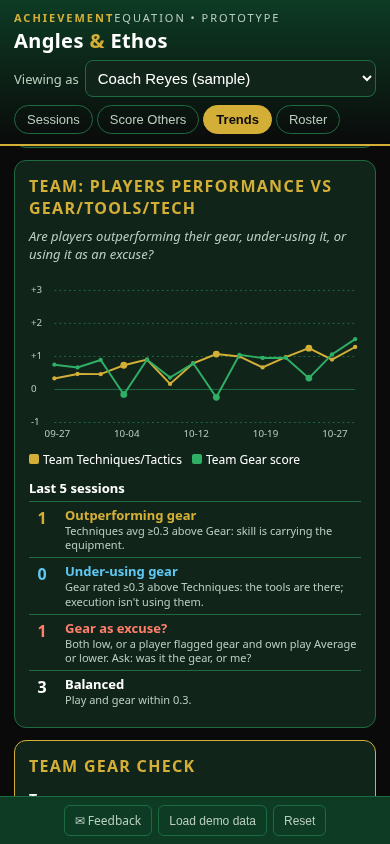
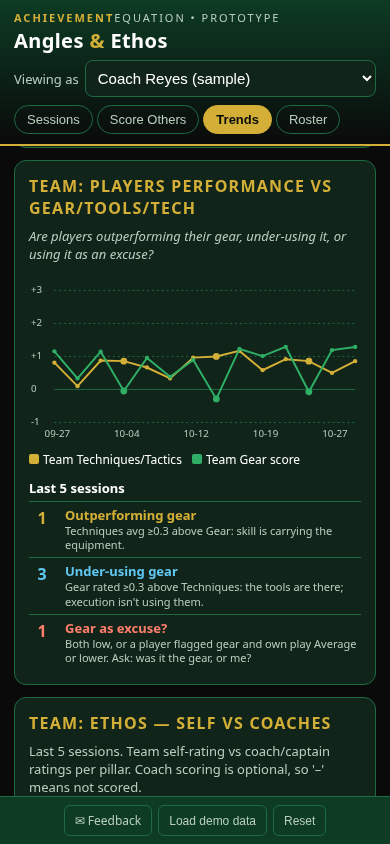
Optional Ethos Pillar scoring + 'Moment I noticed' in Score Others; Ethos self vs coaches; Shout-outs

Changed region(s): [[0.0308, 0.8009, 0.9846, 0.955], [0.1231, 0.4005, 0.9231, 0.4929], [0.0923, 0.6777, 0.1231, 0.7085]]

diff --git a/index.html b/index.html
@@ -42,7 +42,9 @@ const uid=()=>Math.random().toString(36).slice(2,9);
 let S=load(); let tab=null; let draft={};
 function blank(){return{team:'My Team',users:[{id:'coach1',name:'Coach',role:'coach'}],ethos:['Was I coachable?','Did I think of others first?','Did the mission stay the main thing?','Did I look for small things that needed to get done?','Did I work hard?'],angles:{tools:'Tools',technology:'Technology'},sessions:[],entries:[],others:[],me:'coach1'}}
 function migrate(d){const b=blank();if(!d||typeof d!=='object')return b;d.angles={tools:'Tools',technology:'Technology'};for(const k in b)if(d[k]==null)d[k]=b[k];if(!Array.isArray(d.ethos)||d.ethos.some(x=>/placeholder/i.test(x)))d.ethos=b.ethos;while(d.ethos.length<5)d.ethos.push(b.ethos[d.ethos.length]);
- ['users','sessions','entries','others'].forEach(k=>{if(!Array.isArray(d[k]))d[k]=[]});d.entries.forEach(e=>{if(!Array.isArray(e.ethos))e.ethos=[];if(!Array.isArray(e.ethosNotes))e.ethosNotes=[];if(!Array.isArray(e.techScores))e.techScores=[];e.factors=e.factors||{};if(!Array.isArray(e.toolScores)){e.toolScores=[];e.techGear=[];if(e.tools||e.tech)e.gearNote=[e.tools&&('Tools: '+e.tools),e.tech&&('Technology: '+e.tech)].filter(Boolean).join(' · ');if(e.tech==='N/A')e.techNA=true}if(!Array.isArray(e.techGear))e.techGear=[]});d.sessions.forEach(x=>{if(!Array.isArray(x.techniques))x.techniques=[];if(!Array.isArray(x.tools))x.tools=[];if(!Array.isArray(x.tech))x.tech=[]});d.users.forEach(u=>{if(u.role!=='coach'&&!POS[u.pos])u.pos='F'});d.sessions.forEach(x=>{if(!x.groups||typeof x.groups!=='object')x.groups={};for(const g in x.groups){const c=x.groups[g];if(!POS[g]||!c||typeof c!=='object'){delete x.groups[g];continue}['techniques','tools','tech'].forEach(k=>{if(!Array.isArray(c[k]))c[k]=[]});if(!c.techniques.length)delete x.groups[g]}});d.sessions.forEach(x=>{const n=x.coachNotes;if(!n||typeof n!=='object'||Array.isArray(n)){x.coachNotes=typeof n==='string'&&n.trim()?{change:n,learned:'',surprised:'',at:null}:null}else['change','learned','surprised'].forEach(k=>{if(typeof n[k]!=='string')n[k]=''})});d.entries.forEach(e=>{const f=e.factors;if(f.life===undefined&&f.rec===undefined&&f.nutrition===undefined){const ok=v=>typeof v==='number'&&v>=1&&v<=5;const nf={sleepH:f.sleepH??null,sleep:ok(f.sleepQ)?f.sleepQ:null,nutrition:ok(f.nutr)?f.nutr:null,life:ok(f.stress)?6-f.stress:null,notes:f.notes||''};const rr=[ok(f.sore)?6-f.sore:null,ok(f.hyd)?f.hyd:null].filter(v=>v!=null);nf.rec=rr.length?Math.round(rr.reduce((a,b)=>a+b,0)/rr.length*10)/10:null;e.factors=nf}});d.v=6;return d}
+ ['users','sessions','entries','others'].forEach(k=>{if(!Array.isArray(d[k]))d[k]=[]});d.entries.forEach(e=>{if(!Array.isArray(e.ethos))e.ethos=[];if(!Array.isArray(e.ethosNotes))e.ethosNotes=[];if(!Array.isArray(e.techScores))e.techScores=[];e.factors=e.factors||{};if(!Array.isArray(e.toolScores)){e.toolScores=[];e.techGear=[];if(e.tools||e.tech)e.gearNote=[e.tools&&('Tools: '+e.tools),e.tech&&('Technology: '+e.tech)].filter(Boolean).join(' · ');if(e.tech==='N/A')e.techNA=true}if(!Array.isArray(e.techGear))e.techGear=[]});d.sessions.forEach(x=>{if(!Array.isArray(x.techniques))x.techniques=[];if(!Array.isArray(x.tools))x.tools=[];if(!Array.isArray(x.tech))x.tech=[]});d.users.forEach(u=>{if(u.role!=='coach'&&!POS[u.pos])u.pos='F'});d.sessions.forEach(x=>{if(!x.groups||typeof x.groups!=='object')x.groups={};for(const g in x.groups){const c=x.groups[g];if(!POS[g]||!c||typeof c!=='object'){delete x.groups[g];continue}['techniques','tools','tech'].forEach(k=>{if(!Array.isArray(c[k]))c[k]=[]});if(!c.techniques.length)delete x.groups[g]}});d.sessions.forEach(x=>{const n=x.coachNotes;if(!n||typeof n!=='object'||Array.isArray(n)){x.coachNotes=typeof n==='string'&&n.trim()?{change:n,learned:'',surprised:'',at:null}:null}else['change','learned','surprised'].forEach(k=>{if(typeof n[k]!=='string')n[k]=''})});d.entries.forEach(e=>{const f=e.factors;if(f.life===undefined&&f.rec===undefined&&f.nutrition===undefined){const ok=v=>typeof v==='number'&&v>=1&&v<=5;const nf={sleepH:f.sleepH??null,sleep:ok(f.sleepQ)?f.sleepQ:null,nutrition:ok(f.nutr)?f.nutr:null,life:ok(f.stress)?6-f.stress:null,notes:f.notes||''};const rr=[ok(f.sore)?6-f.sore:null,ok(f.hyd)?f.hyd:null].filter(v=>v!=null);nf.rec=rr.length?Math.round(rr.reduce((a,b)=>a+b,0)/rr.length*10)/10:null;e.factors=nf}});d.others.forEach(o=>{if(!Array.isArray(o.ethos))o.ethos=[];o.ethos=o.ethos.slice(0,5).map(v=>typeof v==='number'&&v>=-1&&v<=2?v:null);if(typeof o.note!=='string')o.note=''});d.v=7;return d}
+function ethosCmp(aids){const A=new Set(aids);const L=sorted().filter(x=>S.entries.some(e=>e.sessionId===x.id&&A.has(e.athleteId))||S.others.some(o=>o.sessionId===x.id&&A.has(o.athleteId))).slice(-5),ids=new Set(L.map(x=>x.id));const EN=S.entries.filter(e=>ids.has(e.sessionId)&&A.has(e.athleteId)),OT=S.others.filter(o=>ids.has(o.sessionId)&&A.has(o.athleteId));return S.ethos.map((n,i)=>({n,me:avg(EN.map(e=>(e.ethos||[])[i])),co:avg(OT.map(o=>(o.ethos||[])[i])),c:OT.filter(o=>(o.ethos||[])[i]!=null).length}))}
+function ethosTable(rows,meLab){const gap=(a,c)=>{const g=(a!=null&&c!=null)?a-c:null;return `<td style="text-align:center;color:${g==null?'inherit':Math.abs(g)<0.5?'#2fae66':'#d4af37'}">${g==null?'–':(g>0?'+':'')+g.toFixed(1)}</td>`};return `<table class="ethcmp" style="width:100%;border-collapse:collapse;font-size:13px;margin-top:6px"><tr class="muted"><td>Ethos Pillar</td><td style="text-align:center">${meLab}</td><td style="text-align:center">Coaches</td><td style="text-align:center">Gap</td></tr>${rows.map(r=>`<tr><td style="padding:3px 0">${esc(r.n)}</td><td style="text-align:center">${fmt(r.me)}</td><td style="text-align:center">${r.co==null?'–':fmt(r.co)}</td>${r.co==null?'<td style="text-align:center">–</td>':gap(r.me,r.co)}</tr>`).join('')}</table>`}
 const FAC=[{k:'sleep',n:'Sleep',c:'#d4af37'},{k:'nutrition',n:'Nutrition',c:'#ffffff'},{k:'life',n:'Life away from the ice',c:'#5ec8f2'},{k:'rec',n:'Recovery',c:'#ff7f6b'}];
 function facChart(pts,ctx){if(!pts.some(p=>FAC.some(f=>p[f.k]!=null)))return '<p class="muted">No Additional Factors logged yet.</p>';const W=340,H=170,L=26,R=ctx?26:6,T=8,B=20,iw=W-L-R,ih=H-T-B;const y=v=>T+ih*(1-(v-1)/4),x=i=>L+(pts.length<2?iw/2:iw*i/(pts.length-1));let g='';[1,2,3,4,5].forEach(v=>g+=`<line x1="${L}" x2="${W-R}" y1="${y(v)}" y2="${y(v)}" stroke="#1e6b42" stroke-dasharray="2 3"/><text x="8" y="${y(v)+3}">${v}</text>`);
  if(ctx){const cy=v=>T+ih*(1-(v+1)/3);let d='';pts.forEach((p,i)=>{if(p[ctx.k]!=null)d+=(d?'L':'M')+x(i).toFixed(1)+','+cy(p[ctx.k]).toFixed(1)});g+=`<path d="${d}" fill="none" stroke="#9fbfa9" stroke-width="1.5" stroke-dasharray="4 3" opacity=".55"/><text x="${W-R+2}" y="${cy(0)+3}">0</text><text x="${W-R+2}" y="${cy(2)+3}">+2</text>`}
@@ -127,9 +129,9 @@ log(){const ss=sorted().reverse();if(!ss.length)return `<div class="card"><h2>Lo
  <button class="btn" id="saveLog" style="width:100%">Save session (Player + Member)</button>`},
 others(){const ss=sorted().reverse();if(!ss.length)return '<div class="card"><p class="muted">No sessions yet.</p></div>';
  if(!draft.osid||!sess(draft.osid))draft.osid=ss[0].id;const x=sess(draft.osid),comp=x.type==='competition';
- return `<div class="card"><h2>Score Others</h2><p class="muted">Rate each teammate on Performance and Value.</p><select id="pickO">${ss.map(s=>`<option value="${s.id}" ${s.id===x.id?'selected':''}>${s.date} · ${esc(s.tactic)}</option>`).join('')}</select></div>`+
+ return `<div class="card"><h2>Score Others</h2><p class="muted">Rate each teammate on Performance and Value. Ethos Pillars are optional.</p><select id="pickO">${ss.map(s=>`<option value="${s.id}" ${s.id===x.id?'selected':''}>${s.date} · ${esc(s.tactic)}</option>`).join('')}</select></div>`+
  athletes().filter(a=>a.id!==S.me).map(a=>{const o=S.others.find(o=>o.sessionId===x.id&&o.athleteId===a.id&&o.raterId===S.me)||{};
- return `<div class="card"><h3 style="margin-top:0">${esc(a.name)} ${a.number?'#'+a.number:''} ${a.role==='captain'?'<span class="tag comp">C</span>':''}</h3><label>Performance</label>${scaleHTML('op|'+a.id,o.perf,comp)}<label>Value</label>${scaleHTML('ov|'+a.id,o.val,comp)}</div>`}).join('')},
+ return `<div class="card"><h3 style="margin-top:0">${esc(a.name)} ${a.number?'#'+a.number:''} ${a.role==='captain'?'<span class="tag comp">C</span>':''}</h3><label>Performance</label>${scaleHTML('op|'+a.id,o.perf,comp)}<label>Value</label>${scaleHTML('ov|'+a.id,o.val,comp)}${(()=>{const oe=o.ethos||[],cnt=oe.filter(v=>v!=null).length;return `<details class="oeth" data-aid="${a.id}" ${draft.oOpen&&draft.oOpen[a.id]?'open':''} style="margin-top:10px"><summary style="cursor:pointer;color:var(--gold);font-weight:600">Ethos (optional)${cnt?` · ${cnt}/5 scored`:''}${o.note?' · note':''}</summary><p class="muted" style="font-size:11px;margin:4px 0">Score any pillars you noticed. Tap again to clear.</p>${S.ethos.map((n,i)=>`<label>${esc(n)}</label>${scaleHTML('oe'+i+'|'+a.id,oe[i],false)}`).join('')}<label>Moment I noticed</label><input id="on_${a.id}" class="onote" data-aid="${a.id}" maxlength="200" placeholder="Optional: a low moment or a great one" value="${esc(o.note||'')}"></details>`})()}</div>`}).join('')},
 trends(){return trendView(S.me)},
 team(){const tp=draft.tPos||'all';const as=athletes().filter(a=>tp==='all'||posOf(a)===tp);let pick=draft.tAth||'__team';if(pick!=='__team'&&!as.find(a=>a.id===pick))pick='__team';
  return `<div class="card"><h2>Team Rollup</h2><label style="margin-top:0">Position group</label><select id="tPos">${[['all','All players'],...Object.keys(POS).map(g=>[g,POSP[g]])].map(([v,l])=>`<option value="${v}" ${tp===v?'selected':''}>${l}</option>`).join('')}</select><label>Athlete</label><select id="tAth"><option value="__team">${tp==='all'?'Whole team':'All '+POSP[tp]}</option>${as.map(a=>`<option value="${a.id}" ${pick===a.id?'selected':''}>${esc(a.name)}</option>`).join('')}</select></div>`+(pick==='__team'?teamView(as,tp):trendView(pick))+cnHistory()},
@@ -159,14 +161,15 @@ function trendView(aid){const a=S.users.find(u=>u.id===aid);const p=seriesFor(ai
  <div class="card"><h2>Me vs My Gear</h2>${chart(p,[{k:'tac',c:'#d4af37',n:'Techniques/Tactics'},{k:'gear',c:'#2fae66',n:'Gear score'}])}</div>${gearCard(aid)}
  <div class="card"><h2>My Additional Factors</h2>${facChart(p,{k:'ply',n:'My Player score'})}</div>
  <div class="card"><h2>Teammates — Self</h2><p class="muted" style="margin-top:0;font-style:italic">How I see myself.</p>${chart(p,[{k:'sp',c:'#d4af37',n:'Self Perf'},{k:'sv',c:'#ffffff',n:'Self Value'}])}</div>
- <div class="card"><h2>Teammates — Others</h2><p class="muted" style="margin-top:0;font-style:italic">How my coaches see me.</p>${chart(p,[{k:'op',c:'#e07a5f',n:'Others Perf'},{k:'ov',c:'#ffffff',n:'Others Value'}])}</div>${(()=>{const L=p.slice(-5),m=k=>{const v=L.map(r=>r[k]).filter(v=>v!=null);return v.length?v.reduce((a,b)=>a+b,0)/v.length:null},row=(n,a,c)=>{const g=(a!=null&&c!=null)?a-c:null;return `<tr><td>${n}</td><td style="text-align:center">${fmt(a)}</td><td style="text-align:center">${fmt(c)}</td><td style="text-align:center;color:${g==null?'inherit':Math.abs(g)<0.5?'#2fae66':'#d4af37'}">${g==null?'–':(g>0?'+':'')+g.toFixed(1)}</td></tr>`};return `<div class="card" style="border-color:var(--gold)"><h2>How I see myself vs. how my coaches see me</h2><p class="muted">Last 5 sessions. A big gap is a coaching conversation.</p><table style="width:100%;border-collapse:collapse;font-size:14px"><tr class="muted"><td></td><td style="text-align:center">Me</td><td style="text-align:center">Coaches</td><td style="text-align:center">Gap</td></tr>${row('Performance',m('sp'),m('op'))}${row('Value',m('sv'),m('ov'))}</table></div>`})()}
+ <div class="card"><h2>Teammates — Others</h2><p class="muted" style="margin-top:0;font-style:italic">How my coaches see me.</p>${chart(p,[{k:'op',c:'#e07a5f',n:'Others Perf'},{k:'ov',c:'#ffffff',n:'Others Value'}])}</div>${(()=>{const L=p.slice(-5),m=k=>{const v=L.map(r=>r[k]).filter(v=>v!=null);return v.length?v.reduce((a,b)=>a+b,0)/v.length:null},row=(n,a,c)=>{const g=(a!=null&&c!=null)?a-c:null;return `<tr><td>${n}</td><td style="text-align:center">${fmt(a)}</td><td style="text-align:center">${fmt(c)}</td><td style="text-align:center;color:${g==null?'inherit':Math.abs(g)<0.5?'#2fae66':'#d4af37'}">${g==null?'–':(g>0?'+':'')+g.toFixed(1)}</td></tr>`};return `<div class="card" style="border-color:var(--gold)"><h2>How I see myself vs. how my coaches see me</h2><p class="muted">Last 5 sessions. A big gap is a coaching conversation.</p><table style="width:100%;border-collapse:collapse;font-size:14px"><tr class="muted"><td></td><td style="text-align:center">Me</td><td style="text-align:center">Coaches</td><td style="text-align:center">Gap</td></tr>${row('Performance',m('sp'),m('op'))}${row('Value',m('sv'),m('ov'))}</table>${ethosTable(ethosCmp([aid]),'Me')}<p class="muted" style="font-size:11px;margin:4px 0 0">Ethos rows show '–' where coaches haven't scored that pillar.</p></div>`})()}${shoutouts(aid)}
  <p class="muted" style="text-align:center">Larger dots = competition.</p>`}
+function shoutouts(aid){const L=S.others.filter(o=>o.athleteId===aid&&o.note&&sess(o.sessionId)).sort((a,b)=>sess(b.sessionId).date.localeCompare(sess(a.sessionId).date)).slice(0,6);return `<div class="card shout"><h2>Shout-outs &amp; moments</h2><p class="muted" style="margin-top:0">Notes from your coaches and captains. Names are not shown.</p>${L.length?L.map(o=>{const x=sess(o.sessionId),sc=(o.ethos||[]).map((v,i)=>v==null?'':`<span class="tag" style="color:${v>=1?'#d4af37':v<0?'#ff7f6b':'inherit'}">${esc(S.ethos[i]||'')} ${v>0?'+':''}${v}</span>`).join(' ');return `<div class="it" style="display:block"><div class="muted" style="font-size:11px">${x.date.slice(5)} · ${esc(x.tactic)}</div><div>“${esc(o.note)}”</div>${sc?`<div style="margin-top:3px;font-size:11px">${sc}</div>`:''}</div>`}).join(''):'<p class="muted">No notes yet.</p>'}</div>`}
 function cnHistory(){const L=sorted().reverse().filter(hasNotes);return `<div class="card" style="border-color:var(--gold)"><h2>Coach Notes history</h2><p class="muted">Your own learning over time, most recent first. Coach only.</p>${L.slice(0,10).map(x=>`<div style="padding:8px 0;border-bottom:1px solid var(--line)"><b>${x.date.slice(5)} · ${esc(x.tactic)}</b> <span class="tag ${x.type==='competition'?'comp':''}">${x.type==='competition'?'vs '+esc(x.opponent||'Opp'):'Practice'}</span>${NQ.filter(([k])=>(x.coachNotes[k]||'').trim()).map(([k,l])=>`<p style="margin:4px 0;font-size:13px"><span style="color:var(--gold)">${l}:</span> ${esc(x.coachNotes[k])}</p>`).join('')}</div>`).join('')||'<p class="muted">No Coach Notes yet. Open a session on the Sessions tab to add some.</p>'}</div>`}
 function teamView(as,tp){as=as||athletes();tp=tp||'all';const ids=new Set(as.map(a=>a.id)),EN=S.entries.filter(e=>ids.has(e.athleteId));const p=sorted().map(s=>{const es=EN.filter(e=>e.sessionId===s.id);const os=S.others.filter(o=>o.sessionId===s.id&&ids.has(o.athleteId));
  return{label:s.date.slice(5),comp:s.type==='competition',tac:avg(es.map(e=>avg(e.techScores))),sv:avg(es.map(e=>e.selfVal)),ov:avg(os.map(o=>o.val)),...facPts(es),ply:avg(es.map(playerScore)),gear:avg(es.map(gearScore)),eth:avg(es.map(memberScore)),flags:es.filter(e=>{const g=gearScore(e),t=avg(e.techScores||[]);return g!=null&&t!=null&&g<=0&&t<=0}).length}}).filter(x=>x.tac!=null);
  const rows=as.map(a=>{const q=seriesFor(a.id).slice(-5);return{a,t:avg(q.map(x=>x.tac)),o:avg(q.map(x=>x.ov)),p:avg(q.map(x=>x.ply)),m:avg(q.map(x=>x.eth)),tt:avg(q.map(x=>x.tot)),n:S.entries.filter(e=>e.athleteId===a.id).length}}).sort((x,y)=>(y.tt??-9)-(x.tt??-9));
  const lab=tp==='all'?'Team':POSP[tp];return `<div class="card"><h2>${lab}: Angles &amp; Ethos</h2>${chart(p,[{k:'ply',c:'#d4af37',n:'Angles (Player)'},{k:'eth',c:'#ffffff',n:'Ethos (Member)'}])}</div><div class="card"><h2>${lab}: Additional Factors</h2>${facChart(p,{k:'ply',n:lab+' Player score'})}</div>
- <div class="card"><h2>${lab}: Players Performance vs Gear/Tools/Tech</h2><p class="muted" style="margin-top:0;font-style:italic">Are players outperforming their gear, under-using it, or using it as an excuse?</p>${chart(p,[{k:'tac',c:'#d4af37',n:'Team Techniques/Tactics'},{k:'gear',c:'#2fae66',n:'Team Gear score'}])}${gearPatterns(p)}</div>
+ <div class="card"><h2>${lab}: Players Performance vs Gear/Tools/Tech</h2><p class="muted" style="margin-top:0;font-style:italic">Are players outperforming their gear, under-using it, or using it as an excuse?</p>${chart(p,[{k:'tac',c:'#d4af37',n:'Team Techniques/Tactics'},{k:'gear',c:'#2fae66',n:'Team Gear score'}])}${gearPatterns(p)}</div><div class="card teameth"><h2>${lab}: Ethos — Self vs Coaches</h2><p class="muted" style="margin-top:0">Last 5 sessions. Team self-rating vs coach/captain ratings per pillar. Coach scoring is optional, so '–' means not scored.</p>${ethosTable(ethosCmp([...ids]),'Self')}</div>
  <div class="card" style="border-color:var(--gold)"><h2>Team gear check</h2><h3>Team gear averages</h3>${gearItems(EN).sort((a,b)=>a.avg-b.avg).map(i=>`<div class="it"><span>${esc(i.n)}</span><span class="muted">avg <b style="color:var(--gold)">${fmt(i.avg)}</b> · ${i.low}/${i.c} low</span></div>`).join('')||'<p class="muted">No gear scores yet.</p>'}
  <h3 style="margin-top:12px">"Gear or me?" flags per athlete</h3><p class="muted" style="font-style:italic">Was it the gear, or was it me?</p>${as.map(a=>({a,n:gearFlags(a.id).length})).filter(r=>r.n).sort((x,y)=>y.n-x.n).map(r=>`<div class="it"><span>${esc(r.a.name)}</span><b style="color:var(--gold)">${r.n}</b></div>`).join('')||'<p class="muted">No flags.</p>'}</div>
  <div class="card"><h2>${lab} leaderboard (last 5, by Combined)</h2><div class="list">${rows.map(r=>`<div class="it"><span>${esc(r.a.name)} <span class="tag">${posOf(r.a)}</span> <span class="muted">${r.n} logs</span></span><span>Ply <b style="color:var(--gold)">${fmt(r.p)}</b> · Mem <b>${fmt(r.m)}</b> · Σ <b style="color:var(--gold)">${fmt(r.tt)}</b></span></div>`).join('')}</div></div>`}
@@ -177,7 +180,7 @@ const b=ev.target.closest('button');if(!b)return;
  if(b.dataset.tab){tab=b.dataset.tab;draft={};render();return}
  if(b.dataset.na!=null){grab();if(b.dataset.na==='all')draft.techNA=draft.techNA===false;else{const i=+b.dataset.na;draft.techGear=draft.techGear||[];draft.techGear[i]=draft.techGear[i]==='NA'?null:'NA'}render();return}
  if(b.dataset.k){const k=b.dataset.k,v=+b.dataset.v;
-  if(tab==='others'){const[t,aid]=k.split('|');let o=S.others.find(o=>o.sessionId===draft.osid&&o.athleteId===aid&&o.raterId===S.me);if(!o){o={sessionId:draft.osid,athleteId:aid,raterId:S.me};S.others.push(o)}o[t==='op'?'perf':'val']=v;save();b.parentNode.querySelectorAll('button').forEach(x=>x.classList.toggle('on',x===b));toast('Saved');return}
+  if(tab==='others'){const[t,aid]=k.split('|');let o=S.others.find(o=>o.sessionId===draft.osid&&o.athleteId===aid&&o.raterId===S.me);if(!o){o={sessionId:draft.osid,athleteId:aid,raterId:S.me};S.others.push(o)}if(t.slice(0,2)==='oe'){const i=+t.slice(2);o.ethos=o.ethos||[];const nv=o.ethos[i]===v?null:v;o.ethos[i]=nv;save();b.parentNode.querySelectorAll('button').forEach(x=>x.classList.toggle('on',nv!=null&&x===b));const dd=b.closest('details'),sm=dd&&dd.querySelector('summary');if(sm){const c=o.ethos.filter(x=>x!=null).length;sm.textContent='Ethos (optional)'+(c?' · '+c+'/5 scored':'')+(o.note?' · note':'')}toast(nv==null?'Cleared':'Saved');return}o[t==='op'?'perf':'val']=v;save();b.parentNode.querySelectorAll('button').forEach(x=>x.classList.toggle('on',x===b));toast('Saved');return}
   grab();if(k[0]==='t')draft.techScores[+k.slice(1)]=v;else if(k[0]==='g'){draft.toolScores=draft.toolScores||[];draft.toolScores[+k.slice(1)]=v}else if(k[0]==='h'){draft.techGear=draft.techGear||[];draft.techGear[+k.slice(1)]=v}else if(k==='x'){draft.extra=draft.extra||{};draft.extra.score=v}else if(k==='sp')draft.selfPerf=v;else if(k==='sv')draft.selfVal=v;else if(k[0]==='e'){draft.ethos=draft.ethos||[];draft.ethos[+k.slice(1)]=v}
   b.parentNode.querySelectorAll('button').forEach(x=>x.classList.toggle('on',x===b));const t=document.getElementById('tacScore');if(t)t.textContent=fmt(avg(draft.techScores));const g=id=>document.getElementById(id);if(g('sumP')){g('sumP').textContent=fmt(playerScore(draft));g('sumM').textContent=fmt(memberScore(draft));g('sumT').textContent=fmt(totalScore(draft));g('sumG').textContent=fmt(gearScore(draft))}return}
  if(b.id==='addSess'){const t=document.getElementById('sTac').value.trim(),te=document.getElementById('sTech').value.split('\n').map(s=>s.trim()).filter(Boolean);if(!t||!te.length)return toast('Add a Tactic and Techniques');
@@ -194,7 +197,9 @@ const b=ev.target.closest('button');if(!b)return;
 });
 function grab(){const g=id=>document.getElementById(id);if(!g('focus'))return;draft.focus=g('focus').value;draft.gearNote=g('gNote').value;const xn=g('xName').value.trim();draft.extra=Object.assign(draft.extra||{},{name:xn,kind:g('xKind').value});
  const n=id=>g(id).value===''?null:+g(id).value;const c5=id=>{const v=n(id);return v==null?null:Math.min(5,Math.max(1,v))};draft.factors={sleepH:n('f_sleepH'),sleep:c5('f_sleep'),nutrition:c5('f_nutrition'),life:c5('f_life'),rec:c5('f_rec'),notes:g('f_notes').value};draft.techScores=draft.techScores||[];draft.ethosNotes=S.ethos.map((_,i)=>g('en'+i)?g('en'+i).value:'')}
+document.addEventListener('toggle',ev=>{const d=ev.target;if(d.classList&&d.classList.contains('oeth')){draft.oOpen=draft.oOpen||{};draft.oOpen[d.dataset.aid]=d.open}},true);
 document.addEventListener('change',ev=>{const t=ev.target;
+ if(t.classList&&t.classList.contains('onote')){const aid=t.dataset.aid;let o=S.others.find(o=>o.sessionId===draft.osid&&o.athleteId===aid&&o.raterId===S.me);if(!o){o={sessionId:draft.osid,athleteId:aid,raterId:S.me,ethos:[],note:''};S.others.push(o)}o.note=t.value.trim().slice(0,200);save();toast('Note saved');return}
  if(t.id==='userSel'){S.me=t.value;save();draft={};render()}
  if(t.id==='pickSess'){draft={sid:t.value};render()}
  if(t.id==='pickO'){draft.osid=t.value;render()}
@@ -219,7 +224,7 @@ function demo(){const D=blank();D.team='Stars Elite 19U (demo)';
   const s={id:'s'+d,date:dt.toISOString().slice(0,10),type:comp?'competition':'practice',opponent:comp?opps[(d/4|0)%4]:'',tactic:t[0],techniques:t[1],tools:G[d%2],tech:GT[d%3],groups:{}};const gg=GG[t[0]]||{};for(const g in gg)s.groups[g]={techniques:gg[g],tools:g==='G'?GoT:G[d%2],tech:GT[d%3]};if(!gg.G&&d%3===0)s.groups.G={techniques:t[1],tools:GoT,tech:GT[d%3]};D.sessions.push(s);
   D.users.filter(u=>u.role!=='coach').forEach((u,i)=>{if(rnd()<.1)return;const sleep=Math.round((6+rnd()*3.5)*2)/2;const base=(sleep-7.5)*.5+d*.05+(i===0?.3:0);
    D.entries.push({sessionId:s.id,athleteId:u.id,focus:['Quick feet on retrieval','Communicate early','Win puck battles','Stick on puck'][(i+d)%4],selfPerf:sc(base+.3,comp),selfVal:sc(base+.6,comp),...(()=>{const P=(s.groups[u.pos]||s);const ts=P.techniques.map(()=>sc(base+.4,comp));const bad=(i===0&&d%5===2)||(i===3&&d%4===1)||(i===1&&d%7===5);if(bad)ts.forEach((_,k)=>ts[k]=k%2?-1:0);return{techScores:ts,toolScores:P.tools.map((_,k)=>bad&&k===0?-1:sc(base+.5+(d%4===3?-1.4:0),false)),techGear:P.tech.map(()=>rnd()>.8?'NA':(bad?0:sc(base+.4,false))),techNA:s.tech.length?undefined:true,gearNote:bad?'Edges felt dull':''}})(),ethos:D.ethos.map(()=>sc(.8,false)),ethosNotes:D.ethos.map((_,k)=>k===3&&rnd()>.6?'Helped carry gear / picked up teammates':''),factors:(()=>{const q=v=>Math.min(5,Math.max(1,Math.round(v)));return{sleepH:sleep,sleep:q((sleep-5)*1.2+rnd()*1.2),nutrition:q(2.5+rnd()*2.5+(i%3===0?.5:0)),life:q(3+rnd()*2-(d%6===4?2:0)),rec:q(4-(comp?1:0)-rnd()*1.8+(sleep>8?.7:0)),notes:'Pasta + chicken pre-game'}})()});
-   ['a1','a2','coach1'].filter(x=>x!==u.id).forEach(rid=>{if(rnd()<.5)D.others.push({sessionId:s.id,athleteId:u.id,raterId:rid,perf:sc(base+.2,comp),val:sc(base+.7,comp)})})})}
+   ['a1','a2','coach1'].filter(x=>x!==u.id).forEach(rid=>{if(rnd()<.5)D.others.push({sessionId:s.id,athleteId:u.id,raterId:rid,perf:sc(base+.2,comp),val:sc(base+.7,comp),...(()=>{if(rnd()>.4)return{ethos:[],note:''};const eth=D.ethos.map(()=>rnd()<.45?sc(base+.6,false):null);const good=['Picked up pucks without being asked','Stayed after to help the goalie','First one to tap sticks after a teammate mistake','Took the correction and fixed it next rep','Huge energy on the bench all game'],low=['Argued the call instead of resetting','Coasted on the back-check late','Left gear out in the room','Tuned out during the board talk'];const bad=rnd()<.3;if(bad){const k=Math.floor(rnd()*5);eth[k]=rnd()<.6?-1:0}return{ethos:eth,note:rnd()<.7?(bad?low:good)[Math.floor(rnd()*(bad?4:5))]:''}})()})})})}
  const CN={0:{change:"Too many reps of the D-to-D before the first pass. Next time I'll cut it to two and get wingers moving earlier so the strong-side outlet is actually open.",learned:"Shoulder checks fell off as soon as forecheckers pressured. I need to add pressure earlier in the drill, not just at the end.",surprised:"The goalies' puck-stopping behind the net was the best part of the breakout. Tess talked the whole time."},3:{change:"Should have walked the box rotation at half speed before the game. We went straight to live reps in warmup and the weak side kept collapsing.",learned:"Game pressure exposes our pressure-on-bobble timing. We attacked on cue in practice but froze vs Lakeshore.",surprised:"How much the bench energy dipped after their first goal. That's an Ethos conversation, not a tactics one."},7:{change:"I explained the umbrella for 6 minutes. Next time: 90 seconds on the whiteboard, then walk it on the ice.",learned:"The bumper finds soft ice when the point walks the line with her head up. Teach the point first.",surprised:"Players rated their gear low on a night their own scores were low. Worth a 'gear or me?' talk."},10:{change:"Second breakout session and the wingers still drift off the wall. Next time I'll put a cone on the strong-side hash so they have a target.",learned:"D shoulder checks improved a lot since the first breakout day. Repetition beat re-explaining.",surprised:"Kenzie volunteered to stay late and help pick up pucks without being asked. Pillar 4 in action."}};
  Object.entries(CN).forEach(([i,n],k)=>{const s=D.sessions[+i];if(s)s.coachNotes=Object.assign({at:new Date(new Date(s.date+'T20:00').getTime()+3600e3).toISOString()},n)});
  D.me='coach1';return D}
